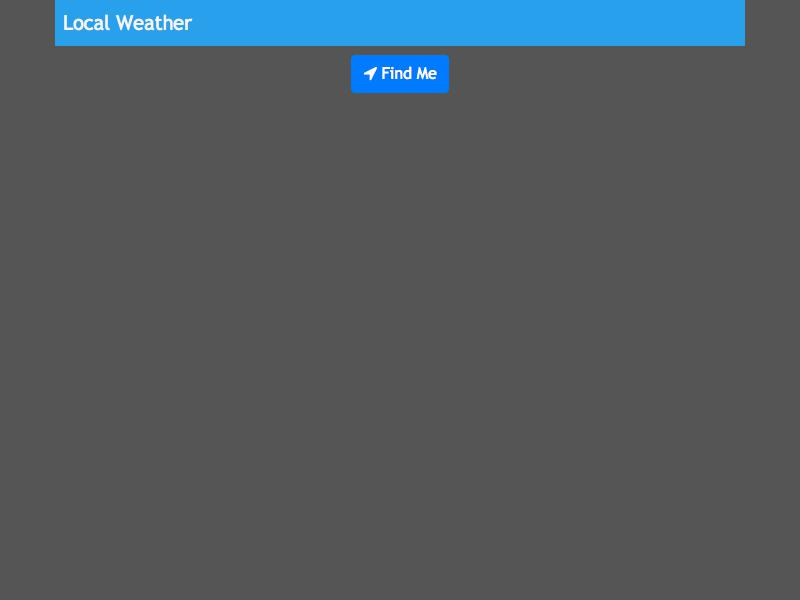
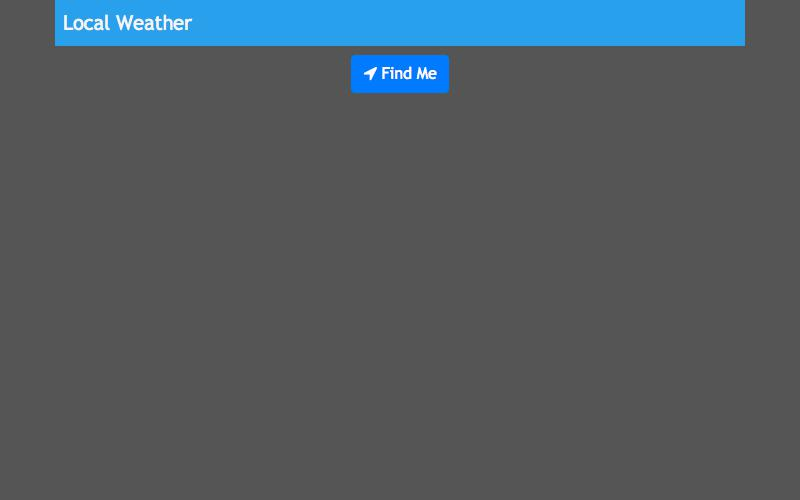
resize thumb

Changed region(s): [[0.0625, 0.03, 0.9375, 0.21]]

diff --git a/_screenshot/rasterize.js b/_screenshot/rasterize.js
@@ -20,8 +20,14 @@ page.open(address, function(status) {
     var filename = (title || 'screenshot').toLowerCase().replace(/\s/g, '_') + '.jpg';
 
     var pageWidth = 800;
-    var pageHeight = pageWidth * 3/4;
+    var pageHeight = pageWidth * 10/16;
     page.viewportSize = { width: pageWidth, height: pageHeight };
+    page.clipRect = {
+      top: 0,
+      left: 0,
+      width: pageWidth,
+      height: pageWidth * 10/16
+    };
     page.render(filename);
   }
   phantom.exit();
